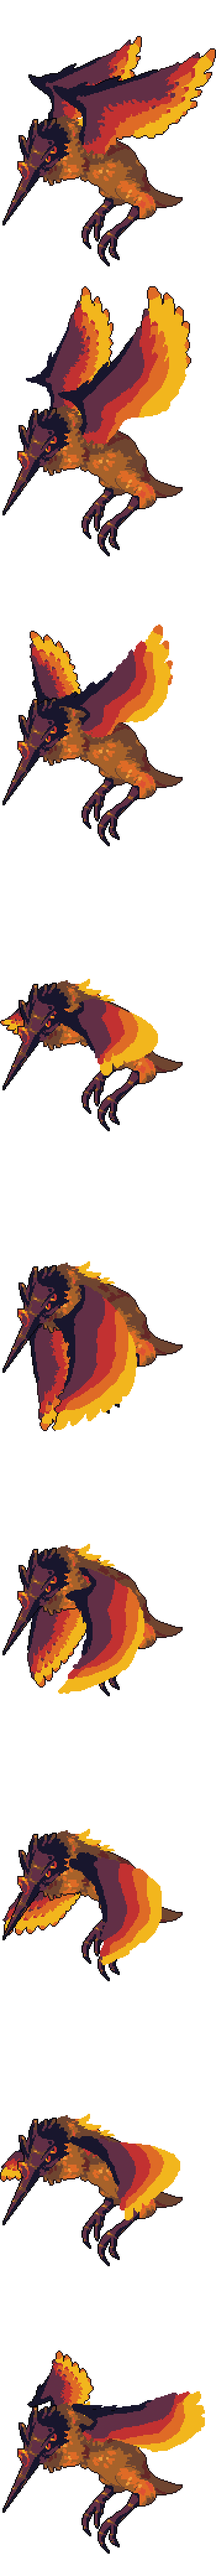
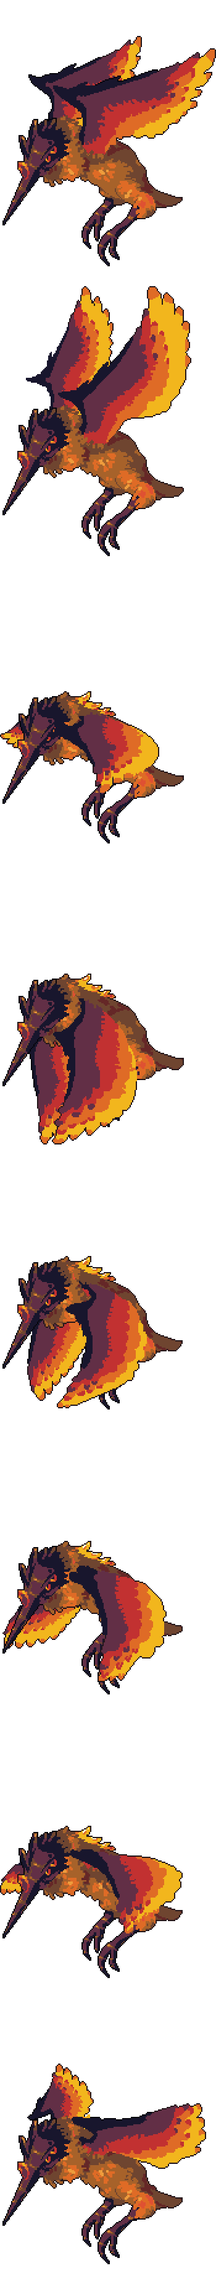
Moyai and Akumo

diff --git a/EESubworlds.cs b/EESubworlds.cs
@@ -86,12 +86,14 @@ namespace EEMod
 
 
             EEWorld.EEWorld.FillRegionWithWater(Main.maxTilesX, Main.maxTilesY, new Vector2(0, 0));
-            EEWorld.EEWorld.RemoveWaterFromRegion(Main.maxTilesX, 180, new Vector2(0, 0));
+            EEWorld.EEWorld.RemoveWaterFromRegion(Main.maxTilesX, 170, new Vector2(0, 0));
 
-            EEWorld.EEWorld.Island(400, 225);
+            EEWorld.EEWorld.MakeOvalJaggedTop(Main.maxTilesX, 50, new Vector2(0, 165), ModContent.TileType<CoralSand>(), 15, 15);
 
-            EEWorld.EEWorld.MakeOvalJaggedTop(Main.maxTilesX, 50, new Vector2(0, 200), ModContent.TileType<CoralSand>(), 15, 15);
-            EEWorld.EEWorld.FillRegion(Main.maxTilesX, Main.maxTilesY - 200, new Vector2(0, 225), ModContent.TileType<CoralSand>());
+            EEWorld.EEWorld.Island(400, 250, 140);
+
+            EEWorld.EEWorld.FillRegion(Main.maxTilesX, Main.maxTilesY - 190, new Vector2(0, 190), ModContent.TileType<CoralSand>());
+
 
             for (int i = 42; i < Main.maxTilesX-42; i++)
             {
@@ -122,8 +124,9 @@ namespace EEMod
                     }
                 }
             }
-            EEWorld.EEWorld.PlaceShip(50, 158, EEWorld.EEWorld.ShipTiles);
-            EEWorld.EEWorld.PlaceShipWalls(50, 158, EEWorld.EEWorld.ShipWalls);
+
+            EEWorld.EEWorld.PlaceShip(50, 150, EEWorld.EEWorld.ShipTiles);
+            EEWorld.EEWorld.PlaceShipWalls(50, 150, EEWorld.EEWorld.ShipWalls);
 
             WorldGen.AddTrees();
 
@@ -131,7 +134,7 @@ namespace EEMod
             SubworldManager.SettleLiquids();
             EEMod.isSaving = false;
             Main.spawnTileX = 200;
-            Main.spawnTileY = 20;
+            Main.spawnTileY = 100;
         }
         public static void Cutscene1(int seed, GenerationProgress customProgressObject = null)
         {

diff --git a/EEWorld/WorldGenMethods.cs b/EEWorld/WorldGenMethods.cs
@@ -3151,10 +3151,10 @@ namespace EEMod.EEWorld
                 }
             }
         }
-        public static void Island(int islandWidth, int islandHeight)
+        public static void Island(int islandWidth, int islandHeight, int posY)
         {
-            MakeOvalJaggedBottom(islandWidth, islandHeight, new Vector2((Main.maxTilesX / 2) - islandWidth / 2, 200), ModContent.TileType<CoralSand>());
-            MakeOvalJaggedBottom((int)(islandWidth * 0.6), (int)(islandHeight * 0.6), new Vector2((int)((Main.maxTilesX / 2) * 0.66), TileCheck((int)(Main.maxTilesX / 2), ModContent.TileType<CoralSand>()) - 5), TileID.Dirt);
+            MakeOvalJaggedBottom(islandWidth, islandHeight, new Vector2((Main.maxTilesX / 2) - islandWidth / 2, posY), ModContent.TileType<CoralSand>());
+            MakeOvalJaggedBottom((int)(islandWidth * 0.6), (int)(islandHeight * 0.6), new Vector2((int)((Main.maxTilesX / 2) - (Main.maxTilesX / 4)), TileCheck((int)(Main.maxTilesX / 2), ModContent.TileType<CoralSand>()) - 10), TileID.Dirt);
             KillWall(Main.maxTilesX, Main.maxTilesY, Vector2.Zero);
 
             for (int i = 0; i < Main.maxTilesX; i++)
@@ -3163,11 +3163,6 @@ namespace EEMod.EEWorld
                 {
                     WorldGen.SpreadGrass(i, j);
                 }
-            }
-            for (int j = 0; j < Main.maxTilesX; j++)
-            {
-                if ((Main.rand.NextBool(5)) && (TileCheck(j, ModContent.TileType<CoralSand>()) < TileCheck(j, TileID.Dirt)) && (TileCheck(j, ModContent.TileType<CoralSand>()) < TileCheck(j, TileID.Grass)))
-                    WorldGen.PlaceTile(j, TileCheck(j, ModContent.TileType<CoralSand>()) - 1, 324);
             }
         }
         public static void PlaceAtlantisCastleRoom(int i, int j, int[,] shape)

diff --git a/NPCs/Bosses/Akumo/Akumo.cs b/NPCs/Bosses/Akumo/Akumo.cs
@@ -19,7 +19,7 @@ namespace EEMod.NPCs.Bosses.Akumo
         public override void SetStaticDefaults()
         {
             DisplayName.SetDefault("Akumo");
-            Main.npcFrameCount[npc.type] = 9;
+            Main.npcFrameCount[npc.type] = 8;
         }
 
         public override void SetDefaults()
@@ -66,7 +66,7 @@ namespace EEMod.NPCs.Bosses.Akumo
             {
                 Main.PlaySound(SoundID.Item32);
             }
-            if (npc.frame.Y >= frameHeight * 9)
+            if (npc.frame.Y >= frameHeight * 8)
             {
 
                 npc.frame.Y = 0;
